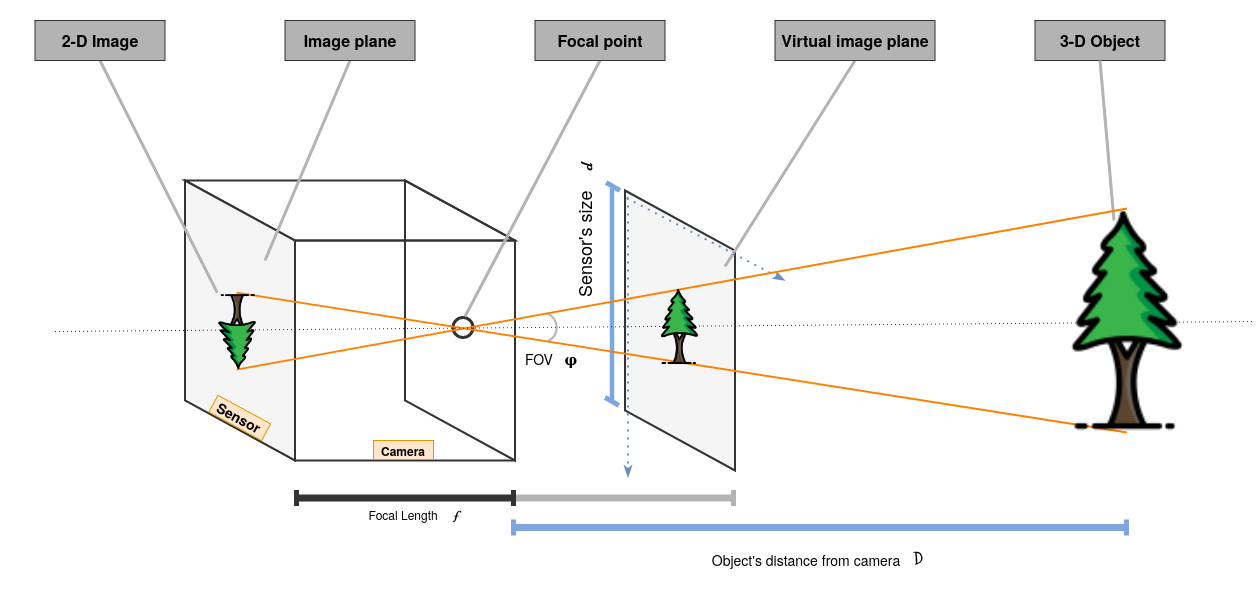
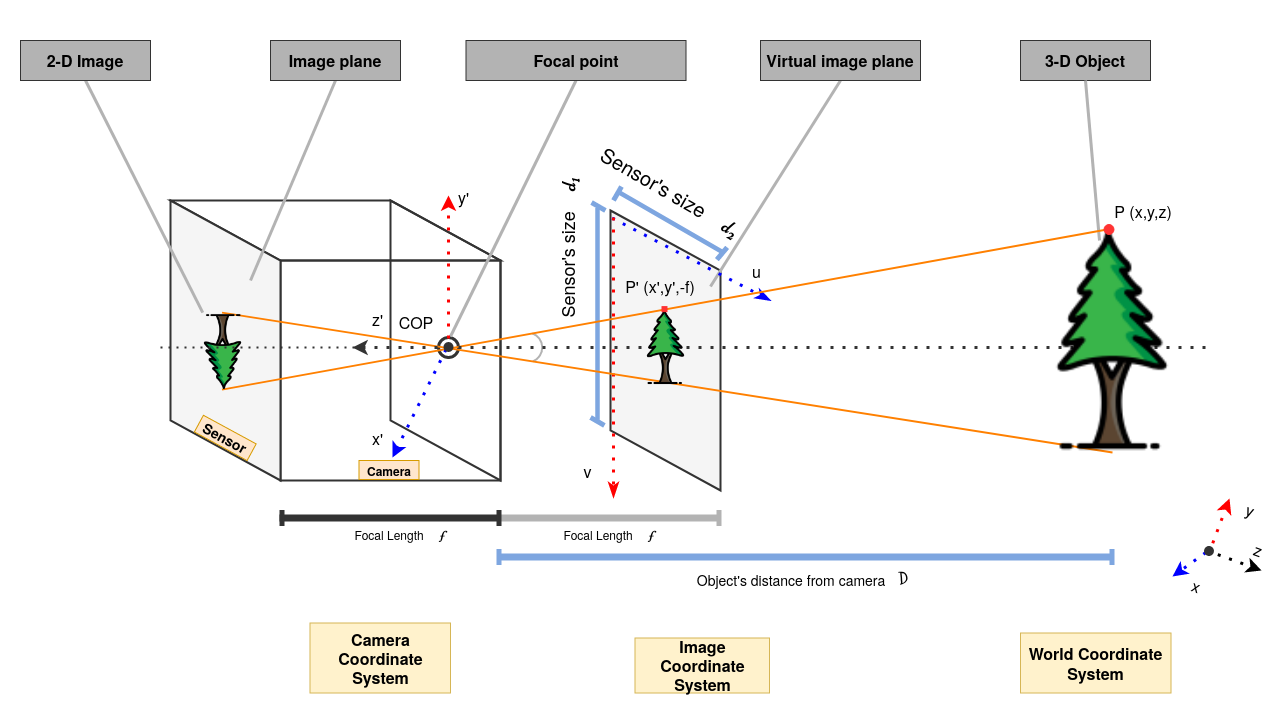
Working on chap 4 camera calibration and ball detection doc

diff --git a/doc/Thesis/Chapters/Chapter4.tex b/doc/Thesis/Chapters/Chapter4.tex
@@ -146,7 +146,7 @@
 {Adafruit 10 DoF IMU}%
 {adafruit-10DoF-imu}%
 <0.35>%
-% ()
+(https://www.banggood.com/10DOF-LSM303-L3G4200D-BMP180-Pressure-Sensor-Barometer-Accelerometer-Magnetometer-Gyroscope-Compass-Gyro-Module-p-1660604.html?utm_source=googleshopping&utm_medium=cpc_organic&gmcCountry=GR&utm_content=minha&utm_campaign=minha-gr-en-pc&currency=EUR&cur_warehouse=CN&createTmp=1&utm_source=googleshopping&utm_medium=cpc_bgs&utm_content=sxxx&utm_campaign=sxxx-pla-gr-en-all-purchase-rm-pc-0720&ad_id=534554931006&gclid=Cj0KCQjwv5uKBhD6ARIsAGv9a-zYv4IDUcaDBSG_7ggf1nlFXmcM6l9fHjUUGiwKJGhUsgZsQ_BVn4YaAkG4EALw_wcB)
 
 % -----------------
 \subsection{Breakout Board}
@@ -296,103 +296,119 @@
 \end{lstlisting}
 
 Η επίσημη βιβλιοθήκη της Adafruit για το module 
-\TODO{about ROS package}
+\TODO{TODO: about ROS package}
 
 %----------------------------------------------------------------------
 
-Notes
 \section{Camera} \label{sec:design-implementation-camera}
-image as a function from  
-2d projection of 3d points
-losing 3rd dimension
 
-lens are not perfect
-- geometric lens distortion
-- ακόμα και chromatic aberration
-- vignetting
+Πριν αναφερθεί ο τρόπος με τον οποίο χρησιμοποιήθηκε η κάμερα, χρειάζεται πρώτα να μοντελοποιηθεί η πληροφορία που μας παρέχει μία εικόνα. Στην πραγματικότητα όταν μιλάμε για images, ουσιαστικά αναφερόμαστε σε functions που έχουν ως πεδίο ορισμού τα \Abbr{3D} points του χώρου στον οποίο τα λάβαμε, και ως πεδίο τιμών τα \Abbr{2D} projection points που κατέγραψε ο sensor της κάμερας. Για το projection υπάρχουν διάφορα μοντέλα, όπως το Perspective, Weak και Orthographic. Στα πλαίσια της συγκεκριμένης διπλωματικής βασιζόμαστε στο Perspective projection model.
 
-\begin{gather}
-	\phi = \taninv{\left( \frac{d/2}{f} \right)}
-\end{gather}
-
-
-Perspective Projection equation:
-\begin{gather}
-	(X, Y, Z) \rightarrow (-d \frac{X}{Z}, -d \frac{Y}{Z}, -d)
-\end{gather}
-
-"we get the projection by throwing out the last coordinate"
-\begin{gather}
-	(x', y') \rightarrow (-d \frac{X}{Z}, -d \frac{Y}{Z})
-\end{gather}
-
-"Obvious application of this dividing by z, is that distant objects are smaller in the image"
-
-"Zero is the center of the image"
-
-Homogeneous Coordinates or homogeneus component of the vector
-
-$\frac{X}{Z}$ and $\frac{Y}{Z}$ is not a linear transformation because Z is not constant so, we add one more coordinate $(x/w,y/w) \Leftrightarrow \begin{bmatrix} x \\ y \\ w \end{bmatrix} $ for (2d) coordinates, Homogeneous image
-and $(x/w,y/w,z/w) \Leftrightarrow \begin{bmatrix} x \\ y \\ z \\w \end{bmatrix} $ for (3d) coordinates, Homogeneous scene.
-
-this makes homogeneout coordinates invariant under scale
-
-so now perspective projection is like that
-
-use homogeneous coordinates to do matrix operations without the fear on non linearity until the very end
-\begin{gather}
-	\begin{bmatrix} 
-        1 & 0 & 0 & 0 \\ 
-        0 & 1 & 0 & 0 \\ 
-        0 & 0 & 1/f & 0 \\
-    \end{bmatrix} 
-    \begin{bmatrix} x \\ y \\ z \\ 1 \end{bmatrix}
-    =
-    \begin{bmatrix} x \\ y \\ z/f \end{bmatrix}
-    \Rightarrow
-    \left( f\frac{x}{z}, f\frac{y}{z} \right)
-    \Rightarrow
-    (u,v)
-\end{gather}
-
-projection matrix is $\begin{bmatrix} 1 & 0 & 0 & 0 \\ 0 & 1 & 0 & 0 \\ 0 & 0 & 1/f & 0 \\\end{bmatrix}$
-
-u, v points in the image of some point x,y,z in the world
-
-points go to points
-lines go to lines
-polygons go to polygons
-
-\begin{table}[H]
-    \caption[Three camera projections]{Three camera projections}
-	\label{tab:three-camera-projections}
-	\centering
-	\resizebox{.8\textwidth}{!}{
-		\begin{tabular}{lllll}
-			\toprule
-			 & & \Centerstack{3D point} & & 2D image\\
-			\midrule
-            $\imath$. & Perspective: & $(x,y,z)$ & $\rightarrow$ & $\left(\frac{fx}{z}, \frac{fy}{z}\right)$ \\ 
-            $\imath\imath$. & Weak perspective & $(x,y,z)$ & $\rightarrow$ & $\left(\frac{fx}{z_0}, \frac{fy}{z_0}\right)$ \\ 
-            $\imath\imath\imath$. & Orthographic & $(x,y,z)$ & $\rightarrow$ & $(x,y)$ \\ 
-			\bottomrule
-		\end{tabular}
-	}
-\end{table}
-projection models: orthographic (telephoto lens), weak perspective (each object has it's own scale factor), perspective projection
-%----------------------------------------------------------------------
-
-
-% ------------------
-Ένα αρκετά βοηθητικό Massive Open Online Course (\Abbr{MOOC}) το οποίο βοήθησε να κατανοηθεί περισσότερο το σκέλος του \Abbr{CV} είναι το \cite{introduction-to-computer-vision}.
-
-Ένα απλό - παρόλα αυτά αρκετά περιγραφικό και κοντά στην πραγματικότητα - μοντέλο, το οποίο χρησιμοποιείται συχνά για το στο \Abbr{CV} είναι αυτό του pinhole model, παράδειγμα στο \Fig{ideal-pinhole-model}.
+% \begin{table}[H]
+%     \caption[Three camera projections]{Three camera projections}
+% 	\label{tab:three-camera-projections}
+% 	\centering
+% 	\resizebox{.8\textwidth}{!}{
+% 		\begin{tabular}{lllll}
+% 			\toprule
+% 			 & & \Centerstack{3D point} & & 2D image\\
+% 			\midrule
+%             $\imath$. & Perspective: & $(x,y,z)$ & $\rightarrow$ & $\left(\frac{fx}{z}, \frac{fy}{z}\right)$ \\ 
+%             $\imath\imath$. & Weak perspective & $(x,y,z)$ & $\rightarrow$ & $\left(\frac{fx}{z_0}, \frac{fy}{z_0}\right)$ \\ 
+%             $\imath\imath\imath$. & Orthographic & $(x,y,z)$ & $\rightarrow$ & $(x,y)$ \\ 
+% 			\bottomrule
+% 		\end{tabular}
+% 	}
+% \end{table}
 
 % Image
 \FigCaptLabelBasedURL{../Photos/pinhole-model.png}%
 {Ideal pinhole model}%
 {ideal-pinhole-model}%
-<0.65>
+<0.8>
+
+Επίσης, ένα απλό (για την κάμερα) - παρόλα αυτά αρκετά περιγραφικό και κοντά στην πραγματικότητα - μοντέλο, το οποίο χρησιμοποιείται συχνά για \Abbr{CV} applications είναι αυτό του Pinhole Model, παράδειγμα στο \Fig{ideal-pinhole-model}, με το COP να είναι το Center of Projection και να χρησιμοποιούμε το Virtual Image Plane για τους υπολογισμούς - μαθηματικά ισοδύναμο με το πραγματικό Image Plane - με τη διαφορά του μη ανεστραμμένου ειδώλου.
+
+Μπορούμε να μεταφερθούμε - από ένα κοινό σε όλους - World Coordinate System (${}^{w}\overrightarrow{p}$) στο Coordinate System της κάμερας (${}^{c}\overrightarrow{p}$) μέσω μίας Rotation (${}^{c}_{w}R$) και μίας Translation (${}^{c}_{w}\overrightarrow{t}$) διαδικασίας - \Equa{world-to-camera-frame}. Συχνά τα περιεχόμενα των Rotation κι Translation ονομάζονται από κοινού Extrinsic Parameters.
+
+Ενώ για τη πραγματική μεταφορά από το Camera Coordinate System σε αυτό της εικόνας θα πρέπει να λάβουμε υπόψιν τις φυσικές παραμέτρους της κάμερας όπως το Focal Length, Skew, etc., οι οποίες συνολικά ονομάζονται Intrinsic Parameters. Η σχέση \EqNum{camera-to-image-plane} παρουσιάζει αυτόν τον μετασχηματισμό, με $(u,v)$ τα pixel στην κάμερα, $(x,y,z)$ οι συντεταγμένες του αντικειμένου με βάση το Camera Coordinate System και $(\alpha, \beta, \theta, u_0, v_0)$ τα Intrinsic Parameters.
+
+
+\begin{gather}
+	{}^{c}\overrightarrow{p} \quad = \quad {}^{c}_{w}R \quad {}^{w}\overrightarrow{p} \quad + \quad {}^{c}_{w}\overrightarrow{t} \label{eq:world-to-camera-frame}\\
+    \begin{matrix}
+        u = \alpha \frac{x}{z} - \alpha cot(\theta)\frac{y}{z} + u_0
+    \end{matrix} 
+    \quad \quad \quad
+    \begin{matrix}
+        v = \frac{\beta}{\sin{\theta}} \frac{y}{z} + v_0
+    \end{matrix} \label{eq:camera-to-image-plane}
+\end{gather}
+
+Οι παραπάνω υπολογισμοί με τη μορφή που είναι αυτή την στιγμή κάνουν πιο δύσκολο τον τρόπο υπολογισμού σε ψηφιακά συστήματα. Επιπλέον έχουν μη γραμμικά μέρη, με αποτέλεσμα να μην είναι αναστρέψιμοι, για αυτόν τον λόγο γίνεται αναφορά των homogeneous coordinates. Τα homogeneous coordinates χρησιμοποιούνται ώστε να μπορούμε να μετασχηματίσουμε εύκολα, σε μία πλέον τις παραπάνω σχέσεις, με χρήση πινάκων - \Equa{world-to-image-trans}. Όπου $x$ οι συντεταγμένες στην εικόνα, $X$ οι συντεταγμένες στον φυσικό κόσμο και $M$ ο πίνακας μετασχηματισμού, τα περιεχόμενα του οποίου αναλύονται στην σχέση \EqNum{world-to-image-matrix} 
+
+\begin{align}
+	\begin{matrix}
+        (x/w,y/w) \Leftrightarrow \begin{bmatrix} x \\ y \\ w \end{bmatrix} \\ 
+        \textrm{homogeneous image} \\ 
+        \textrm{(2D) coordinates}
+    \end{matrix} 
+    \nonumber \quad \quad
+    \begin{matrix}
+        (x/w,y/w,z/w) \Leftrightarrow \begin{bmatrix} x \\ y \\ z \\ w \end{bmatrix} \\ 
+        \textrm{homogeneous scene} \\ 
+        \textrm{(3D) coordinates }
+    \end{matrix} \nonumber
+\end{align}
+
+\begin{gather}
+	x \simeq \begin{bmatrix} sx \\ sy \\ s \end{bmatrix} = MX = M \begin{bmatrix} X \\ Y \\ Z  \\ 1 \end{bmatrix} \label{eq:world-to-image-trans}
+\end{gather}
+
+\begin{gather}
+	M_{3x4} = 
+    \begin{matrix}
+        \begin{bmatrix} 
+            f & s & x'_c \\ 
+            0 & af & y'_c \\
+            0  & 0 & 1
+        \end{bmatrix}\\
+        Intrinsics
+    \end{matrix}
+    \begin{matrix}
+        \begin{bmatrix} 
+            1 & 0 & 0 & 0 \\ 
+            0 & 1 & 0 & 0 \\ 
+            0 & 0 & 1 & 0 \\ 
+        \end{bmatrix}\\
+        Projection
+    \end{matrix}
+    \begin{matrix}
+        \begin{bmatrix} 
+            R_{3x3} & 0_{3x1} \\ 
+            0_{1x3} & 1 \\  
+        \end{bmatrix}\\
+        Rotation
+    \end{matrix}
+    \begin{matrix}
+        \begin{bmatrix} 
+            I_{3x3} & T_{3x1} \\ 
+            0_{1x3} & 1 \\  
+        \end{bmatrix}\\
+        Translation
+    \end{matrix} \label{eq:world-to-image-matrix}
+\end{gather}
+
+Ένα αρκετά βοηθητικό Massive Open Online Course (\Abbr{MOOC}) το οποίο βοήθησε ώστε να κατανοηθεί περισσότερο το σκέλος του \Abbr{CV} και στο οποίο μπορεί κάποιος να ανατρέξει για περισσότερες λεπτομέρειες σε σχέση με τους παραπάνω φορμαλισμούς είναι το \cite{introduction-to-computer-vision}. Επιπρόσθετα, στο \Sect{camera-calibration} περιγράφεται ο τρόπος υπολογισμού των στοιχείων του πίνακα μετασχηματισμού $M$.
+
+% ------------------
+\subsubsection{Camera Calibration} \label{sec:camera-calibration}
+Στο \Sect{design-implementation-camera} έγινε αναφορά του πίνακα μετασχηματισμού $M$. Επίσης, τα lens μίας κάμερας δεν είναι ιδανικά, κάνοντας τις λήψεις να φέρουν παραμορφώσεις (βλ. \Fig{distortion-types}), όμως μπορεί να περιγραφεί η συνολική παραμόρφωση ενός lens μέσω των Distortion coefficients. Η διαδικασία υπολογισμού όλων των παραμέτρων της κάμερας προκειμένου αξιόπιστα να μπορούμε να κάνουμε υπολογισμούς με βάση των λήψεων της σε μία \Abbr{CV} εφαρμογή ονομάζεται camera calibration. 
+
+Για να πραγματοποιηθεί στην συγκεκριμένη διπλωματική το calibration της κάμερας, 
+
+checkerboard
+
 
 % Image
 \FigCaptLabelBasedURL{Images/Design-Implementation/distortion-types.png}%
@@ -401,21 +417,13 @@ projection models: orthographic (telephoto lens), weak perspective (each object 
 <0.65>%
 (https://learnopencv.com/understanding-lens-distortion/)
 
-\begin{gather}
-	x \simeq \begin{bmatrix} sx \\ sy \\ s \end{bmatrix} = MX = M \begin{bmatrix} X \\ Y \\ Z  \\ 1 \end{bmatrix} 
-\end{gather}
 
-\begin{gather}
-	M_{(3x4)} = I_{(3x3)} P_{(4x4)} R_{(2x2)} T_{(2x2)}
-\end{gather}
-
-Internal parameters
-    Intrinsic 
-    Distortion (ideal Pinhole model does not have lens)
-
-    
-Extrinsic 
-\subsubsection{Camera Calibration}
+% Image
+\FigCaptLabelBasedURL{Images/Design-Implementation/checkerboard-sample.png}%
+{Checkerboard}%
+{Checkerboard-sample}%
+<0.4>%
+(https://learnopencv.com/understanding-lens-distortion/)
 
 % Image
 \FigCaptLabelBasedURL{../Photos/CameraCalibration/1920x1080/camera-calibration-mean-error.png}%
@@ -429,12 +437,68 @@ Extrinsic
 {1080p-camera-parameters}%
 <0.5>
 
+\begin{lstlisting}[basicstyle=\small, language=bash, escapechar=@, caption={I2C addressed output example},label=list:I2C-output]
+cameraMatrix : [1221.670078632844, 0, 359.5; 0, 1221.670078632844, 639.5; 0, 0, 1]
+distCoeffs : [-0.2506578326392855, 0.1182628760317329, 0, 0, 0]
+Rotation vector : [3.190633323577214, ...]
+Translation vector : [0.02939835187912455, ...]
+   
+Error: 3.09597
+\end{lstlisting}
+
+% ------------------
+\subsubsection{Camera Usage} \label{sec:camera-usage}
+Προκειμένου να χρησιμοποιηθεί η κάμερα, συνδέθηκε στο Raspbe
+
+% ------------------
 \subsubsection{Ball Detection and Tracking}
+\begin{figure} [H]
+	\centering
+	% -----------------
+    \begin{minipage}{.5\textwidth}
+      \centering
+      \includegraphics[width=0.5\linewidth]{Images/Design-Implementation/rgb.png}\\
+      {(a) RGB \URI{https://www.google.com/imgres?imgurl=https\%3A\%2F\%2Fqph.fs.quoracdn.net\%2Fmain-qimg-d33e22b88db273d09513f652bcb79736&imgrefurl=https\%3A\%2F\%2Fwww.quora.com\%2FWhat-are-the-differences-between-RGB-HSV-and-CIE-Lab&tbnid=XWOdefD1z2_-gM&vet=12ahUKEwjE5Iacxo_zAhW95LsIHeBlCGYQMygKegUIARCzAQ..i&docid=8mJRsf1Rk3zM_M&w=1600&h=1200&q=rgb\%20vs\%20hsv&hl=el&client=ubuntu&ved=2ahUKEwjE5Iacxo_zAhW95LsIHeBlCGYQMygKegUIARCzAQ}}
+    \end{minipage}%
+    % -----------------
+    \begin{minipage}{.5\textwidth}
+      \centering
+      \includegraphics[width=.6\linewidth]{Images/Design-Implementation/hsv.png}\\
+      {(b) HSV \URI{https://www.google.com/imgres?imgurl=https\%3A\%2F\%2Fqph.fs.quoracdn.net\%2Fmain-qimg-7c6685f64cf5ea346a9c33be0d256a95&imgrefurl=https\%3A\%2F\%2Fwww.quora.com\%2FWhat-are-the-differences-between-RGB-HSV-and-CIE-Lab&tbnid=BwsDxAXpjI2MqM&vet=12ahUKEwjE5Iacxo_zAhW95LsIHeBlCGYQMygBegUIARCdAQ..i&docid=8mJRsf1Rk3zM_M&w=1600&h=1200&q=rgb\%20vs\%20hsv&hl=el&client=ubuntu&ved=2ahUKEwjE5Iacxo_zAhW95LsIHeBlCGYQMygBegUIARCdAQ}}
+	\end{minipage}
+	% -----------------
+    \hfill \break
+    \decoRule
+    \CaptionBasedwithURL{Color Spaces} 
+    \label{fig:color-space}
+\end{figure}
+
+% ALGORITHM
+\begin{algorithm}[H]
+	\caption[Distance Vector-Hop]{Distance Vector-Hop}\label{alg:DV-Hop}
+	\begin{algorithmic}[1]
+		\Statex{{\bf procedure} DV-Hop}{}
+			
+        \State
+	\end{algorithmic}
+\end{algorithm}
+
+\FigCaptLabelBasedURL{../Photos/thesis-hsv.png}%
+{Detect balls based on their color}%
+{balls-detection-color}%
+<0.9>
+
+\FigCaptLabelBasedURL{../Photos/thesis-hough.png}%
+{Detect balls based on their shape}%
+{balls-detection-shape}%
+<0.8>
+
+% ------------------
+
 \subsubsection{Range Estimation}
 Για τον υπολογισμό της απόστασης της μπάλας από την κάμερα, χρησιμοποιείται ως κύρια αρχή ο φορμαλισμός που περιγράφηκε στο \Sect{theo-structure-from-reference}.
 
 %----------------------------------------------------------------------
-
 \section{Networking}
 
 %----------------------------------------------------------------------

diff --git a/doc/Thesis/Chapters/Chapter2.tex b/doc/Thesis/Chapters/Chapter2.tex
@@ -304,7 +304,7 @@ remote sensing technologies, συγκεκριμένα με την χρήση Lig
 
 % IMAGE
 \FigCaptLabelBasedURL{Images/Related-Work/optitrack.png}%
-{Optitrack Motion Capturing System for drone swarm localization}%
+{Optitrack Motion Capture System for drone swarm localization}%
 {motion-capturing-drone-swarm}%
 <0.6>%
 (https://optitrack.com/systems/)
